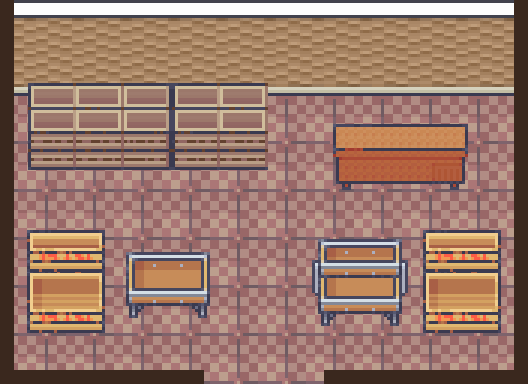
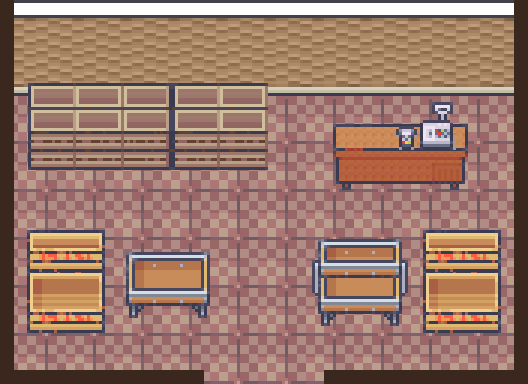
The store's counter is a till you can see
Trym: "when i enter the store its not very intuitive that you can click on the store counter
for opening the inventory of the store - it should be solved visually with something rather
than add another information message or textbox".

- The pack's cash register stands on the counter now: the one object anybody reads as "pay
  here", pack art baked into the room, and true whether the shop is open or shut.
- The counter is one piece: its right third was a second sprite with no tap box, so a tap
  there did nothing. The whole counter, register and all, answers a tap.
- A tap walks the banana to the counter, and the shop opens when it gets there. It used to
  open from anywhere in the room, the one thing indoors that did not walk first.
- A customer who has never opened it sees the counter lit with the town's own glow (the one
  the restock chore uses), until the first time; after that the register says it alone.
  Never for the store's own staff, never while the shop is shut. No new words anywhere.

tests/town-store-till.spec.mjs walks it at 375x667 and 1280x800; design library §41.

Changed region(s): [[0.7273, 0.25, 0.8788, 0.4062]]

diff --git a/src/scripts/town-geo.js b/src/scripts/town-geo.js
@@ -7,14 +7,14 @@ export const DOORS = { south: { x: 1100, y: 1270 } };
 export const STREETS = [[156, 560, 2020, 660], [260, 1040, 2020, 1140], [660, 660, 1540, 1040], [260, 560, 340, 1140], [1940, 560, 2020, 1140], [1040, 1140, 1160, 1300], [768, 288, 816, 576], [1392, 336, 1440, 576], [1920, 0, 1968, 576], [1536, 672, 1920, 720], [336, 672, 672, 720], [1584, 1152, 1920, 1248]];
 export const FOUNTAIN = [1100, 900, 145, 182, 6];
 export const ANIMS = [["smallfount", 1770, 1240, 72, 109, 8, 1.2], ["drink", 1330, 470, 72, 109, 4, 0.8]];
-export const STATE = {"lamp": [182, 182, 4, -41, -48, -76], "ghost": [72, 72, 8], "ghostf": [72, 72, 8], "ghost4": [72, 72, 32], "ghostform": [72, 72, 4], "driftgone": [72, 145, 8], "ghostw": [72, 72, 8], "drift": [72, 145, 15], "wisp": [72, 72, 6], "crow": [40, 40, 3], "candle": [36, 109, 4], "flame": [65, 65, 5], "spark": [51, 51, 5], "fountainoff": [145, 182, 1], "rollcafe": [116, 58, 20], "rollinfo": [109, 72, 16], "flap": [40, 40, 6], "dumpclose": [72, 109, 6], "leaf": [42, 22, 1], "shutcafe": [117, 57, 1], "shutinfo": [110, 74, 1], "binfull": [38, 56, 1], "pile": [74, 56, 1], "trash1": [24, 24, 1], "trash2": [31, 26, 1], "trash3": [15, 15, 1], "trash4": [15, 15, 1], "trash5": [26, 24, 1], "trash6": [19, 26, 1], "trash7": [31, 35, 1], "graffiti1": [38, 35, 1], "graffiti2": [38, 38, 1], "cartp": [110, 126, 1], "dumpfull": [67, 92, 1], "dumpfulls": [67, 92, 1], "dumpclosed": [67, 63, 1], "bag1": [38, 33, 1], "bag2": [33, 26, 1], "bag3": [31, 28, 1], "box1": [33, 26, 1], "letterseal": [52, 52, 1], "letteropen": [52, 52, 1], "fullsh1": [48, 96, 1], "fullsh2": [48, 96, 1], "fullsh3": [48, 96, 1], "fullsh4": [48, 96, 1], "fullsh5": [48, 96, 1], "fulltbl1": [96, 96, 1], "fulltbl2": [96, 128, 1], "oversh1": [48, 96, 1], "oversh2": [48, 96, 1], "oversh3": [48, 96, 1], "oversh4": [48, 96, 1], "oversh5": [48, 96, 1], "overcr1": [96, 109, 1], "overtbl1": [96, 96, 1], "overtbl2": [96, 112, 1], "overcr2": [96, 109, 1], "crate": [96, 80, 1], "hoardstore": [183, 73, 1], "hoardcafe": [158, 73, 1], "hoardpost": [293, 73, 1], "hoardsign": [36, 109, 1]};
+export const STATE = {"lamp": [182, 182, 4, -41, -48, -76], "ghost": [72, 72, 8], "ghostf": [72, 72, 8], "ghost4": [72, 72, 32], "ghostform": [72, 72, 4], "driftgone": [72, 145, 8], "ghostw": [72, 72, 8], "drift": [72, 145, 15], "wisp": [72, 72, 6], "crow": [40, 40, 3], "candle": [36, 109, 4], "flame": [65, 65, 5], "spark": [51, 51, 5], "fountainoff": [145, 182, 1], "rollcafe": [116, 58, 20], "rollinfo": [109, 72, 16], "flap": [40, 40, 6], "dumpclose": [72, 109, 6], "leaf": [42, 22, 1], "shutcafe": [117, 57, 1], "shutinfo": [110, 74, 1], "binfull": [38, 56, 1], "pile": [74, 56, 1], "trash1": [24, 24, 1], "trash2": [31, 26, 1], "trash3": [15, 15, 1], "trash4": [15, 15, 1], "trash5": [26, 24, 1], "trash6": [19, 26, 1], "trash7": [31, 35, 1], "graffiti1": [38, 35, 1], "graffiti2": [38, 38, 1], "cartp": [110, 126, 1], "dumpfull": [67, 92, 1], "dumpfulls": [67, 92, 1], "dumpclosed": [67, 63, 1], "bag1": [38, 33, 1], "bag2": [33, 26, 1], "bag3": [31, 28, 1], "box1": [33, 26, 1], "letterseal": [52, 52, 1], "letteropen": [52, 52, 1], "fullsh1": [48, 96, 1], "fullsh2": [48, 96, 1], "fullsh3": [48, 96, 1], "fullsh4": [48, 96, 1], "fullsh5": [48, 96, 1], "fulltbl1": [96, 96, 1], "fulltbl2": [96, 128, 1], "oversh1": [48, 96, 1], "oversh2": [48, 96, 1], "oversh3": [48, 96, 1], "oversh4": [48, 96, 1], "oversh5": [48, 96, 1], "overtill": [144, 88, 1], "overcr1": [96, 109, 1], "overtbl1": [96, 96, 1], "overtbl2": [96, 112, 1], "overcr2": [96, 109, 1], "crate": [96, 80, 1], "hoardstore": [183, 73, 1], "hoardcafe": [158, 73, 1], "hoardpost": [293, 73, 1], "hoardsign": [36, 109, 1]};
 // 🚧 the player"s own lock: a worksite hoarding per front the story opens, plus the signpost that says how far along you are
 export const HOARD = {"store": {"art": "hoardstore", "cx": 480, "base": 1040}, "cafe": {"art": "hoardcafe", "cx": 1830, "base": 1040}, "post": {"art": "hoardpost", "cx": 1700, "base": 560}};
 export const ARCADE = {"img": "in-arcade.png", "box": [300, 120, 576, 432], "spawn": [588, 496], "exit": [542, 534, 634, 552], "cols": [[300, 120, 876, 220], [300, 120, 314, 552], [862, 120, 876, 552], [300, 538, 528, 552], [648, 538, 876, 552], [324, 216, 372, 292], [388, 216, 436, 292], [452, 216, 500, 292], [516, 216, 564, 292], [580, 216, 628, 292], [666, 216, 762, 292], [762, 216, 858, 292], [704, 346, 736, 356], [784, 346, 816, 356], [316, 410, 380, 450], [316, 482, 380, 522], [796, 410, 860, 450], [796, 482, 860, 522]], "spots": [["g1", 324, 164, 372, 292], ["g2", 388, 164, 436, 292], ["g3", 452, 164, 500, 292], ["g4", 516, 164, 564, 292], ["g5", 580, 164, 628, 292], ["counter", 666, 164, 762, 292], ["counter", 762, 164, 858, 292], ["g6", 316, 338, 380, 450], ["g7", 316, 410, 380, 522], ["g8", 796, 338, 860, 450], ["g9", 796, 410, 860, 522]]};
 // 🏪 the general store, baked at its emptiest — stock is drawn over these spots by band
 // 🛋 where a banana can sit down, and which way it looks when it does — [key, x, foot, "l"|"r"]
 export const SEATS = [["benchsq0", 960, 1036, "r"], ["benchsq1", 1240, 1036, "l"], ["bencht0", 1670, 1236, "r"], ["bencht1", 1870, 1236, "l"], ["benchm", 1500, 470, "l"], ["benchc0", 1600, 758, "l"], ["benchc1", 1860, 758, "l"], ["benchg", 610, 758, "r"]];
-export const STORE = {"img": "in-store.png", "box": [300, 620, 528, 384], "spawn": [564, 948], "exit": [518, 986, 610, 1004], "cols": [[300, 620, 828, 720], [300, 620, 314, 1004], [814, 620, 828, 1004], [300, 990, 504, 1004], [624, 990, 828, 1004], [328, 720, 376, 796], [376, 720, 424, 796], [424, 720, 472, 796], [472, 720, 520, 796], [520, 720, 568, 796], [630, 752, 726, 810], [726, 752, 774, 810], [326, 922, 406, 956], [420, 910, 516, 956], [612, 908, 708, 964], [722, 922, 802, 956]], "spots": [["sh1", 328, 700, 376, 796], ["sh2", 376, 700, 424, 796], ["sh3", 424, 700, 472, 796], ["sh4", 472, 700, 520, 796], ["sh5", 520, 700, 568, 796], ["till", 630, 730, 726, 810], ["cr1", 318, 847, 414, 956], ["tbl1", 420, 860, 516, 956], ["tbl2", 612, 852, 708, 964], ["cr2", 714, 847, 810, 956]], "full": [["sh1", "fullsh1", 352, 796], ["sh2", "fullsh2", 400, 796], ["sh3", "fullsh3", 448, 796], ["sh4", "fullsh4", 496, 796], ["sh5", "fullsh5", 544, 796], ["tbl1", "fulltbl1", 468, 956], ["tbl2", "fulltbl2", 660, 964]], "over": {"sh1": ["oversh1", 352, 796], "sh2": ["oversh2", 400, 796], "sh3": ["oversh3", 448, 796], "sh4": ["oversh4", 496, 796], "sh5": ["oversh5", 544, 796], "cr1": ["overcr1", 366, 956], "tbl1": ["overtbl1", 468, 956], "tbl2": ["overtbl2", 660, 964], "cr2": ["overcr2", 762, 956]}};
+export const STORE = {"img": "in-store.png", "box": [300, 620, 528, 384], "spawn": [564, 948], "exit": [518, 986, 610, 1004], "cols": [[300, 620, 828, 720], [300, 620, 314, 1004], [814, 620, 828, 1004], [300, 990, 504, 1004], [624, 990, 828, 1004], [328, 720, 376, 796], [376, 720, 424, 796], [424, 720, 472, 796], [472, 720, 520, 796], [520, 720, 568, 796], [630, 752, 774, 810], [326, 922, 406, 956], [420, 910, 516, 956], [612, 908, 708, 964], [722, 922, 802, 956]], "spots": [["sh1", 328, 700, 376, 796], ["sh2", 376, 700, 424, 796], ["sh3", 424, 700, 472, 796], ["sh4", 472, 700, 520, 796], ["sh5", 520, 700, 568, 796], ["till", 630, 722, 774, 810], ["cr1", 318, 847, 414, 956], ["tbl1", 420, 860, 516, 956], ["tbl2", 612, 852, 708, 964], ["cr2", 714, 847, 810, 956]], "full": [["sh1", "fullsh1", 352, 796], ["sh2", "fullsh2", 400, 796], ["sh3", "fullsh3", 448, 796], ["sh4", "fullsh4", 496, 796], ["sh5", "fullsh5", 544, 796], ["tbl1", "fulltbl1", 468, 956], ["tbl2", "fulltbl2", 660, 964]], "over": {"sh1": ["oversh1", 352, 796], "sh2": ["oversh2", 400, 796], "sh3": ["oversh3", 448, 796], "sh4": ["oversh4", 496, 796], "sh5": ["oversh5", 544, 796], "till": ["overtill", 702, 810], "cr1": ["overcr1", 366, 956], "tbl1": ["overtbl1", 468, 956], "tbl2": ["overtbl2", 660, 964], "cr2": ["overcr2", 762, 956]}};
 // ☕ the Coffee Cup"s serving window: [centre x, the floor its feet stand on, the pack"s own barista"s height],
 // measured as the DIFFERENCE between the pack"s empty kiosk and the pack"s kiosk-with-a-barista, after the very
 // same blockify and scale the prop itself went through. A banana at work stands here, and the kiosk draws over it.

diff --git a/src/scripts/town-room.js b/src/scripts/town-room.js
@@ -32,6 +32,7 @@ import { grantToShed, orderFor, takeFromShed, hasInShed, homeStage, canHold, shi
 import { STATE, OB_RECTS, OB_CIRCLES, STORE, HOARD, CAFE_WIN, INFO_WIN, OVERLAYS } from './town-geo.js';   // 🕹 ARCADE moved with the arcade's week (town-arcade.js)
 import { HOARD_ON, HOARDABLE, SIGNATURES, SIGN_AT } from '../data/town/locks.js';
 import { iconSvg } from '../lib/pixel-icons.js';   // the board's three notes wear pixel icons, never OS emoji
+import { once, seen } from '../lib/once.js';   // 🧾 the counter's invitation, until the till is first opened
 import { arrived as callIn, calls as callsAt } from '../lib/work-calls.js';   // 📟 the on-call staff's work comes in as calls (slice 0b)
 import { BANDS, BAND_LO, HYST, LOOK, PROBLEM_OPEN, WAVES, NIGHT, VISITOR_SPOTS, NIGHT_AFTER, NIGHT_AFTER_MS } from '../data/town/condition.js';
 import { PROBLEMS, ANCHORS } from '../data/town/problems.js';
@@ -1064,7 +1065,10 @@ export function bootTownLife(ctx) {
       ctx.then(() => chore(key));
       return true;
     }
-    if (key === 'store' || key === 'till') return shopCard('store');   // 🏪 the counter inside (a tap on the front walks you in since 23 Sep 2026: banana-town.js openFor)
+    if (key === 'store' || key === 'till') {   // 🏪 the counter inside (a tap on the front walks you in since 23 Sep 2026: banana-town.js openFor)
+      if (key === 'till' && once('store:till')) hintShow();   // 🧾 opened once: the invitation has done its work
+      return shopCard('store');
+    }
     return false;
   }
 
@@ -1370,6 +1374,7 @@ export function bootTownLife(ctx) {
     restocked: () => restocked(),
     bare: () => bareShelf(),
     hints: () => hints.map((s2) => s2.key),
+    invite: () => invites.map((s2) => s2.key),   // 🧾 the counter's own invitation, for a customer (never the chore's hints)
     // ☕ the counter, once its chunk is in: the walk cannot wait on an import it did not ask for
     cafe: () => (cafe ? cafe.seam : null),
     lemon: () => (lemon ? lemon.seam : null),   // 🍋 the stand's counter, once its chunk is in
@@ -1498,17 +1503,29 @@ export function bootTownLife(ctx) {
   // and it only ever shines for somebody who can answer it, so it is never a tease.
   // Each glowing thing is the SAME single the plate already painted, laid exactly over itself, so
   // nothing moves and nothing is added to the room: it just picks up the town's own `is-todo` halo.
-  let hints = [];
+  let hints = [], invites = [];
   function hintShow() {
     hints.forEach(kill); hints = [];
+    invites.forEach(kill); invites = [];
     if (roomAt !== 'store' || !STORE || !STORE.over) return;
     const mine = ctx.job && ctx.job();
-    if (!mine || mine.at !== 'store' || bareShelf() < 0) return;
+    if (!mine || mine.at !== 'store') { invite(); return; }
+    if (bareShelf() < 0) return;
     for (const k of (carry ? [bareKey()] : CRATES)) {
       const o = STORE.over[k]; if (!o) continue;
       const sp = sprite(o[0], o[1], o[2], { z: 2000 + o[2], cls: 'is-in is-todo' });
       if (sp) hints.push(sp);
     }
+  }
+  // 🧾 …AND A CUSTOMER'S (26 Sep 2026, Trym: "its not very intuitive that you can click on the store counter for opening the
+  // inventory of the store - it should be solved visually"). The counter, register and all, wears the same halo until the first
+  // time its card is opened on this device; after that the register on it says "pay here" by itself (§30: say it when it applies,
+  // once). Never while the shop is shut — an invitation only shines for somebody who can answer it.
+  function invite() {
+    const o = STORE.over.till;
+    if (!o || seen('store:till') || !shelfFor()) return;
+    const sp = sprite(o[0], o[1], o[2], { z: 2000 + o[2], cls: 'is-in is-todo is-invite' });
+    if (sp) invites.push(sp);
   }
   function roomShow(key) {
     roomAt = key || '';

diff --git a/src/scripts/banana-town.js b/src/scripts/banana-town.js
@@ -472,6 +472,14 @@ view.addEventListener('pointerdown', (e) => {
     }
     if (hit[0] === 'flyer') { const f = life.flyer(hit[1]); if (f) { tgt.x = f.x; tgt.y = f.y + 12; arriveThen = () => { if (life.pick(hit[1])) { float(f.x, f.y - 30, '+1'); hud.refresh(); } }; } return; }   // walk to it, then it is picked up: a point of rep, the park's litter rule
     if (inRoom === 'store' && serve && serve.tap(hit[1])) return;   // 🛒 a customer is waiting: the shelves and the till are theirs first
+    // 🧾 THE COUNTER IS WALKED TO, THEN IT OPENS (26 Sep 2026): its card opened on the tap from anywhere in the room, the one
+    // thing indoors that did not walk first — and a card that appears from across the room does not say where it came from
+    if (inRoom === 'store' && hit[1] === 'till') {
+      const q = ROOMS.store.spots.find((s2) => s2[0] === 'till');
+      if (q) { tgt.x = (q[1] + q[3]) / 2; tgt.y = q[4] + 26; }
+      arriveThen = () => { openFor('till'); };
+      return;
+    }
     const spot = SPOTS[hit[1]], wasIn = inRoom;
     // ⚠ a thing with nothing to say says NOTHING. This used to fall back to the raw key, which was
     // harmless while every tappable thing had an entry — a room full of shelves would have toasted "sh1".

diff --git a/src/lib/once.js b/src/lib/once.js
@@ -8,3 +8,7 @@ export function once(k) {
   try { localStorage.setItem('tw-once-v1', JSON.stringify(o)); } catch (e) {}
   return true;
 }
+// …and whether it has been, without spending it: a thing shown UNTIL it is first used asks seen(k), then calls once(k) on the use
+export function seen(k) {
+  try { return !!(JSON.parse(localStorage.getItem('tw-once-v1') || '{}') || {})[k]; } catch (e) { return false; }
+}

diff --git a/tools/build-town-scene.py b/tools/build-town-scene.py
@@ -880,6 +880,8 @@ if os.path.isdir(RBD) and os.path.isdir(GROC):
     # So the two crates are composited into a single piece here, sat on each other with a two-pixel
     # overlap so the lower one's rim reads as carrying the upper.
     def spiece(n):
+        if n == 'till':
+            return till_piece()
         if not isinstance(n, tuple):
             return RB.strip_floor(RB.single(GROC, n))
         bot, top = (RB.strip_floor(RB.single(GROC, k)) for k in n)
@@ -892,6 +894,25 @@ if os.path.isdir(RBD) and os.path.isdir(GROC):
 
     STACK = (356, 359)   # the pack's bare wooden crate, with its shallow cousin on top
 
+    # 🧾 THE COUNTER IS A TILL (26 Sep 2026, Trym: "its not very intuitive that you can click on the store counter for
+    # opening the inventory of the store - it should be solved visually with something rather than add another information
+    # message or textbox"). It was the pack's bare wooden counter — two singles, nothing on them, nobody behind — so it read
+    # as furniture. The pack's own cash register (308) stands on it now, the one object anybody reads as "pay here", and it
+    # stays true when the shop is shut (an OPEN sign would not, design library §32). And the counter is ONE piece: the right
+    # third was a second single with no key, so a tap there found nothing, and the invitation could only have lit two thirds.
+    # ⚠ the register is NOT strip_floor'ed: it has no baked plinth, and the flood would eat its grey from the bottom edge.
+    def till_piece():
+        a, b = (RB.strip_floor(RB.single(GROC, k)) for k in (378, 379))
+        reg = RB.single(GROC, 308)
+        reg = reg.crop(reg.getbbox())
+        lift = max(0, reg.height - 40)   # how far the register stands above the counter's own 80-px canvas
+        out = Image.new('RGBA', (a.width + b.width, a.height + lift), (0, 0, 0, 0))
+        out.alpha_composite(a, (0, lift))
+        out.alpha_composite(b, (a.width, lift))
+        # its feet on the front edge of the counter top, on the right half and clear of both ends (looked at in four places)
+        out.alpha_composite(reg, (66, lift + 40 - reg.height))
+        return out
+
     # (single, x, base y, collider rel. to (x, base) or None, the spot key stock hangs on)
     SFURN = [
         # the back wall: one flush run of bare shelving, pushed up into the wall band like the
@@ -899,8 +920,8 @@ if os.path.isdir(RBD) and os.path.isdir(GROC):
         (406, 28, 176, (0, -76, 48, 0), 'sh1'), (407, 76, 176, (0, -76, 48, 0), 'sh2'),
         (408, 124, 176, (0, -76, 48, 0), 'sh3'), (406, 172, 176, (0, -76, 48, 0), 'sh4'),
         (407, 220, 176, (0, -76, 48, 0), 'sh5'),
-        # the counter, right of the run and against the same wall — Pip stands behind it
-        (378, 330, 190, (0, -58, 96, 0), 'till'), (379, 426, 190, (0, -58, 48, 0), None),
+        # the counter, right of the run and against the same wall, with the register on it (till_piece above)
+        ('till', 330, 190, (0, -58, 144, 0), 'till'),
         # the floor: a crate stack at each side wall with a bare market table beside it, leaving a
         # clear aisle from the door straight up to the counter (the doorway is the bottom middle)
         #
@@ -947,7 +968,7 @@ if os.path.isdir(RBD) and os.path.isdir(GROC):
     # single, same pixel, nothing moved — and the room glows THAT. The trick the shutters and the full
     # bins have always used; here it lets the chore explain itself with no words at all: the crate
     # stacks glow while your hands are empty, and the bare face glows while you are carrying one.
-    SOVER = ['cr1', 'cr2', 'sh1', 'sh2', 'sh3', 'sh4', 'sh5', 'tbl1', 'tbl2']
+    SOVER = ['cr1', 'cr2', 'sh1', 'sh2', 'sh3', 'sh4', 'sh5', 'tbl1', 'tbl2', 'till']   # 🧾 the till: a customer's invitation
     sover = {}
     for n, x, base, col, key in SFURN:
         if key not in SOVER:

diff --git a/docs/design-library.md b/docs/design-library.md
@@ -723,6 +723,7 @@ drifted. A rule with only a paragraph has drifted at least once.
 | 38 | The front page's party clips (never scrolls), its crew is the builder's strips on whole CSS pixels with nothing to tap, the name's shadow is a black drop-shadow, its ticker's numbers are the stats file's read low and its live lines come only when the world answers | `tests/home-hero.spec.mjs` (a CSS property cannot be grepped for a meaning, so the walk asserts the outcome at 360–1440 px) |
 | 39 | A variable font is one URL across its weights; the front page's pictures are WebP at their shown size, nothing below the fold is eager, every picture arrives | `check-design.mjs` (two @font-face URLs with identical files fail) + `tests/home-hero.spec.mjs` (the banana is WebP, the slides lazy WebP, the band's stickers small, every image loads, Space Grotesk fetched once) |
 | 40 | The mailbox's envelopes are drawn, never a scaled item sprite; a letter from somebody new is never called a knock; the counter offers a postcard beside a letter; the postcard sheet is whole on its card at every size | `check-copy.mjs` (knock or door in the first-letter words; `card.make` ≤ 13) + `tests/town-post.spec.mjs` (the first-letter flow, the counter's two buttons whole at 360, the sheet with nothing below the fold at 360×640, 375×667, 1366×625 and 1280×720, the words go round) + `tests/homestead-letters.spec.mjs` (no postcard at home) |
+| 41 | A fitting that opens a card looks like what it does in its own art, the whole drawn piece answers a tap, the banana walks to it before the card opens, and a customer sees it lit once until first use — never its own staff, never while shut | `tests/town-store-till.spec.mjs` (the register's counter lit for a new customer and visible above the plate, a real tap on its right third walks there and opens the shop on arrival, the light gone for good after, none for the staff, none when shut) — a behaviour, so a walk rather than a grep |
 | — | A page's FAQ markup is what its page shows | `check-structured-data.mjs` (every FAQPage question and answer must be on the page as written, on every page — nothing exempt) |
 | 1, 3–11, 13, 14 | Judgement: grids, colour, motion, copy tone, naming | **nothing mechanical — a screenshot and Trym's eyes** |
 
@@ -1242,3 +1243,30 @@ view is a bit messy"*.
   walk scrolls a control into view before it taps, so it cannot see this class; the sheet's test measures the card.
 - **A label is measured in its own row at 360 px.** "Send a postcard" fits the counter's half-row at 0.82rem and not
   an open letter's (about 92 px), where the answer stays "Send a card". Measure the verb span, which is what clips.
+
+## §41 A COUNTER LOOKS LIKE WHAT IT DOES, AND SAYS SO ONCE (26 Sep 2026, Trym in the store)
+
+Trym: *"when i enter the store its not very intuitive that you can click on the store counter for opening the inventory of
+the store - it should be solved visually with something rather than add another information message or textbox"*.
+
+The store's counter was the pack's bare wooden counter: nothing on it, nobody behind it, a third of it dead to a tap, and a
+card that opened from across the room. Four rules came out of it, for any fitting in a room that opens a card:
+
+- **It looks like what it does, in its own art.** The pack's cash register (grocery single 308) stands on the counter:
+  the one object anybody reads as "pay here". Pack art, baked into the plate (`till_piece` in
+  `tools/build-town-scene.py`), and true in every state of the shop. ⚠ Not an OPEN sign: the shop shuts at the lowest band,
+  and "nobody says a shop is open unless it always is" (§32).
+- **One piece, one spot.** The counter was two singles and only the first had a key, so a tap on its right third found
+  nothing. It is one composited piece now, keyed `till`, so the whole drawn thing answers a tap (§24's rule, indoors) and
+  the whole of it can glow.
+- **Walk first, then the card** (§18). Every other thing indoors is walked to before it answers; the counter opened on the
+  tap, from anywhere. A card that appears from across the room does not say where it came from.
+- **A customer's invitation, once.** The town's own halo (`is-todo`, the restock chore's invitation) on the counter, register
+  and all, for somebody who is not the shop's staff and has never opened its card on this device — gone at the first
+  opening and never back (`seen()` / `once()` in `src/lib/once.js`: §30, say it when it applies, once). Never for the
+  staff (a place greets strangers, §32), never while the shop is shut (an invitation only shines for somebody who can
+  answer it). It is its own list (`room.seam.invite()`), never the chore's `hints()`.
+- ⏳ Open: the bake still says "Pip stands behind it", and nobody does — `INSIDE` in `town-life.js` only lets Spinner keep
+  the arcade from within, so Pip minds the store from the square, and the room's greeting names him while he is outside
+  (§3e). Putting Pip behind the counter needs a depth piece for the counter's front (he would stand in front of the plate
+  otherwise) and a rule for a tap on him against a tap on the till.
